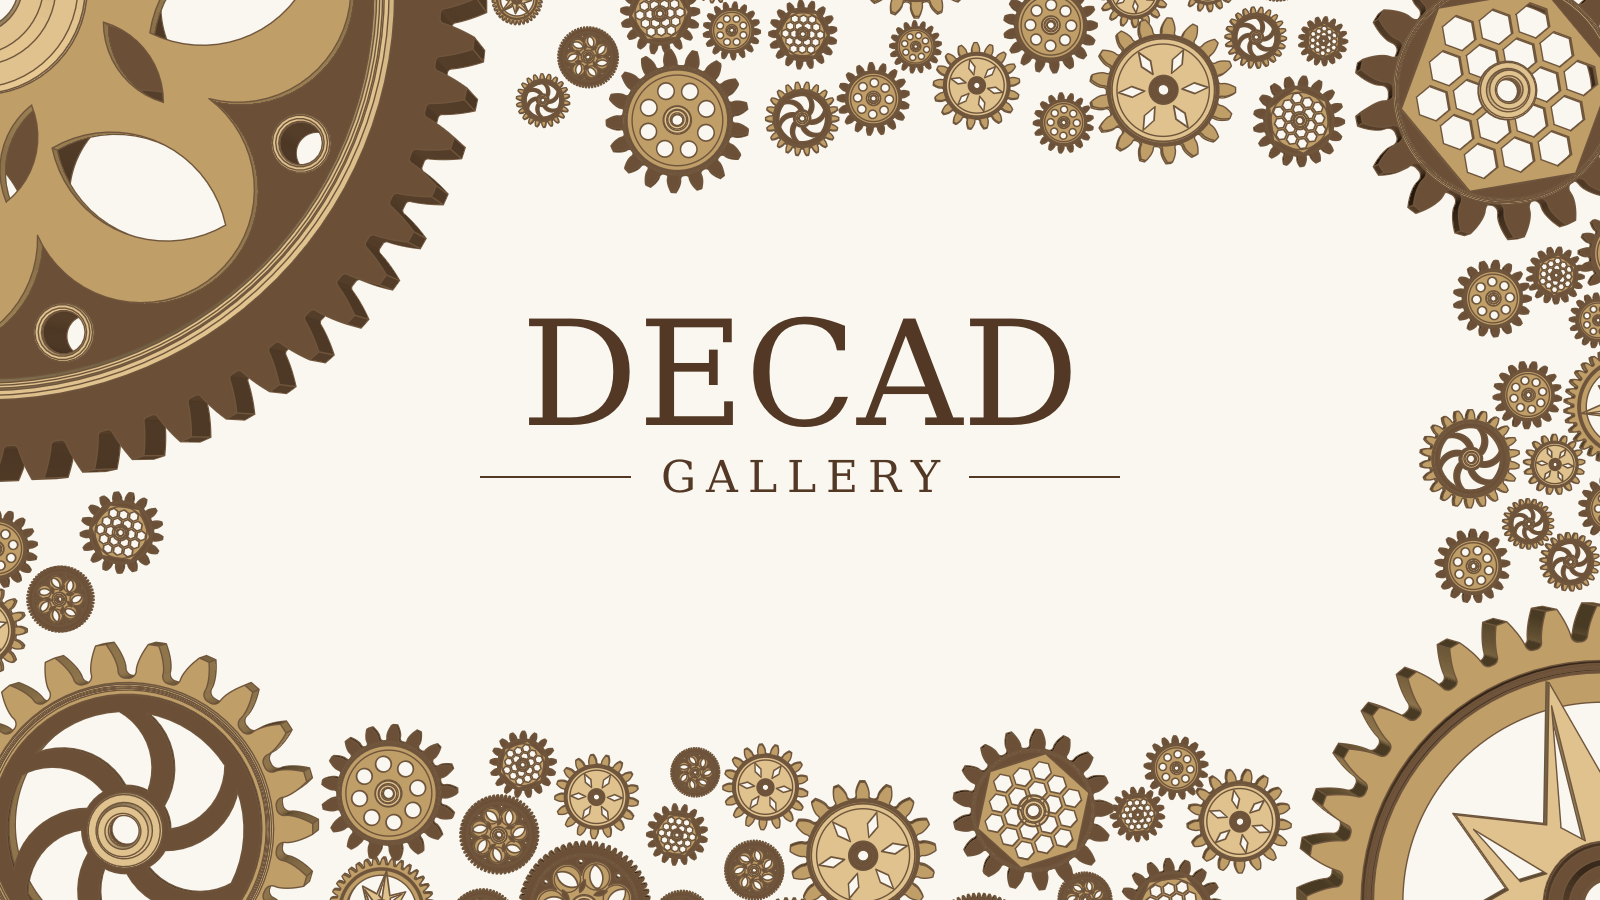
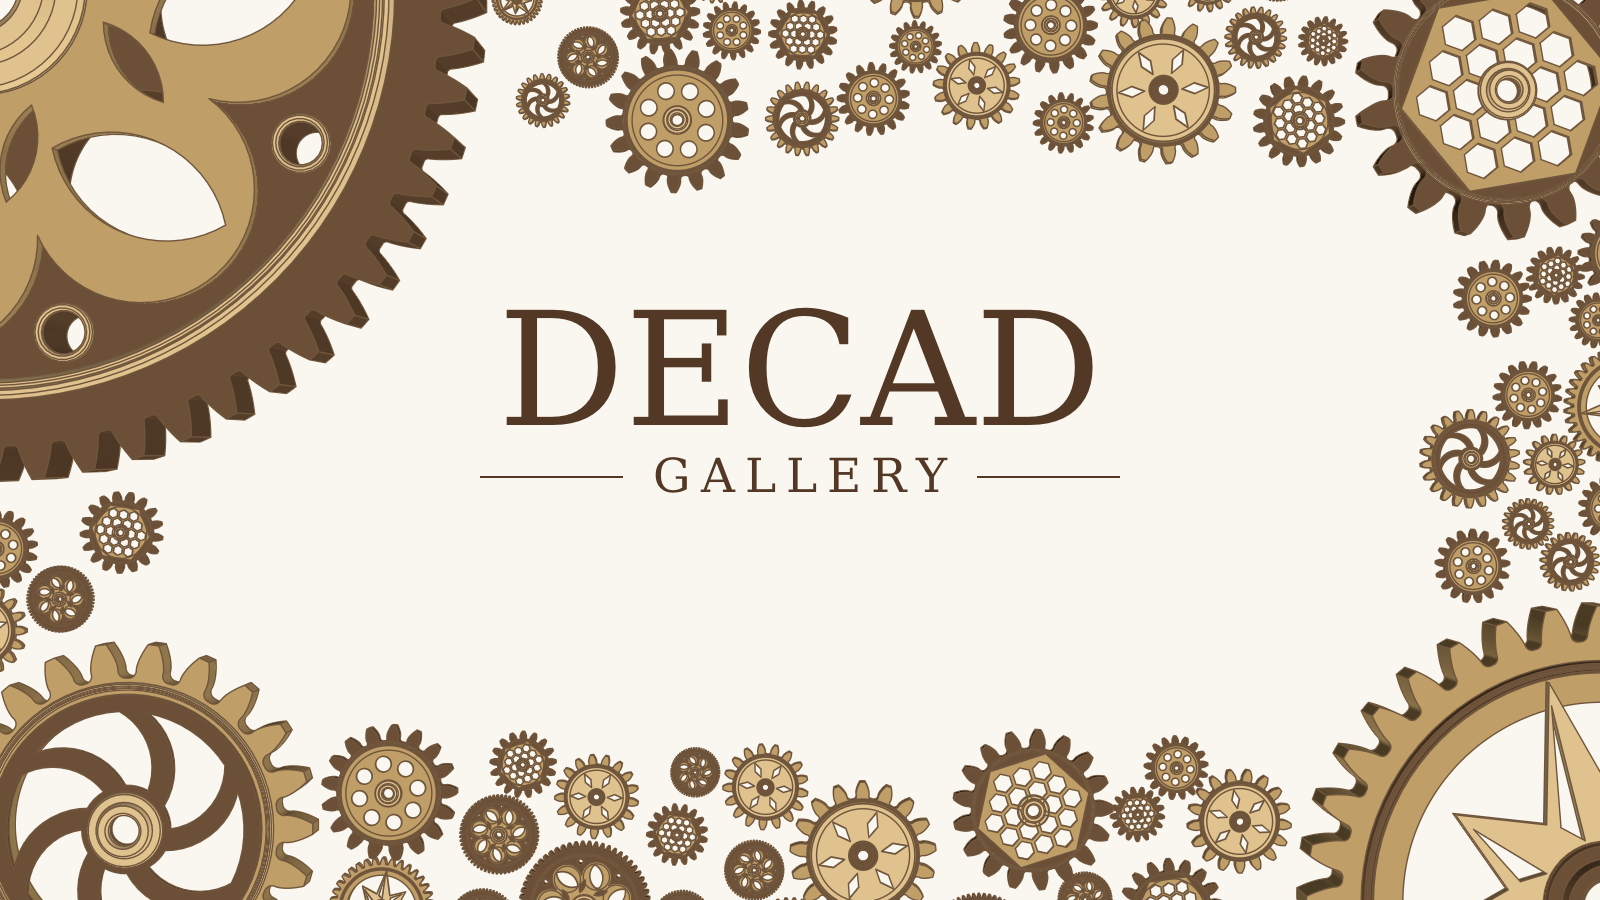
enlarge hero wordmark slightly

Changed region(s): [[0.3125, 0.3422, 0.6875, 0.4667], [0.4062, 0.4978, 0.5938, 0.56]]

diff --git a/tools/render/gallery_logo.go b/tools/render/gallery_logo.go
@@ -56,12 +56,12 @@ func drawGalleryLogo(canvas *image.RGBA) error {
 		return err
 	}
 	scale := float64(canvas.Bounds().Dx()) / 1600
-	mainFace, err := opentype.NewFace(parsed, &opentype.FaceOptions{Size: 146 * scale, DPI: 72, Hinting: font.HintingFull})
+	mainFace, err := opentype.NewFace(parsed, &opentype.FaceOptions{Size: 158 * scale, DPI: 72, Hinting: font.HintingFull})
 	if err != nil {
 		return err
 	}
 	defer func() { _ = mainFace.Close() }()
-	subFace, err := opentype.NewFace(parsed, &opentype.FaceOptions{Size: 44 * scale, DPI: 72, Hinting: font.HintingFull})
+	subFace, err := opentype.NewFace(parsed, &opentype.FaceOptions{Size: 47 * scale, DPI: 72, Hinting: font.HintingFull})
 	if err != nil {
 		return err
 	}
